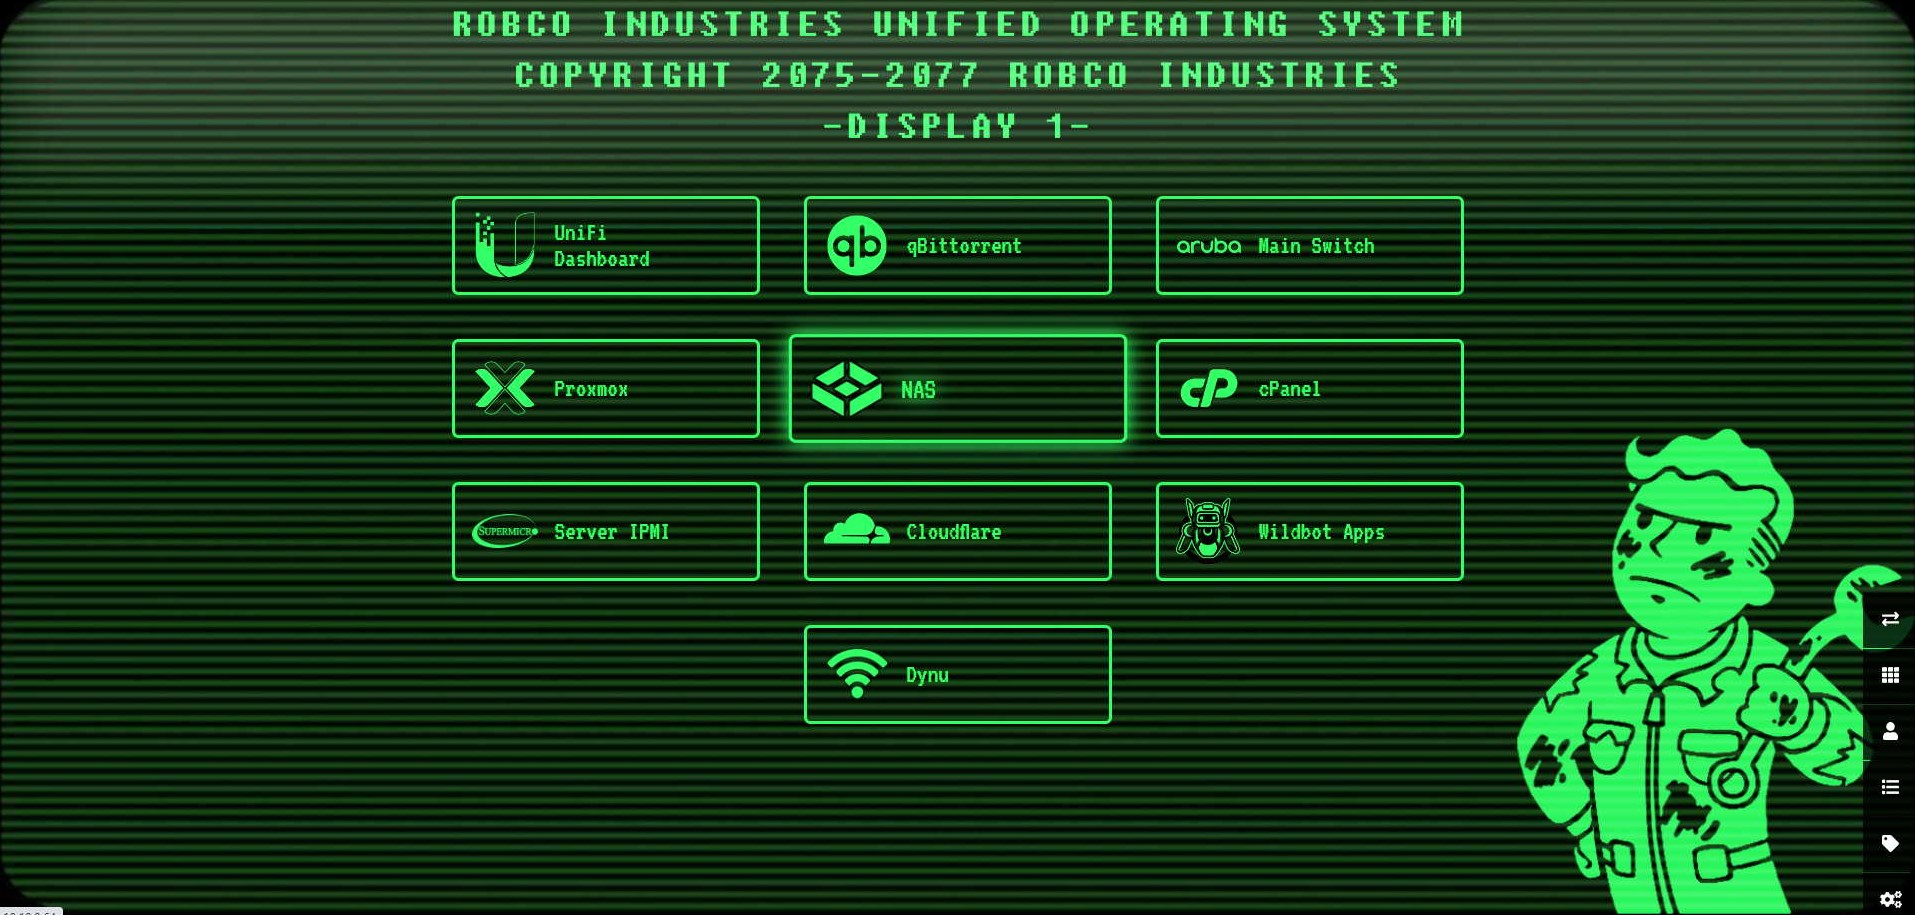
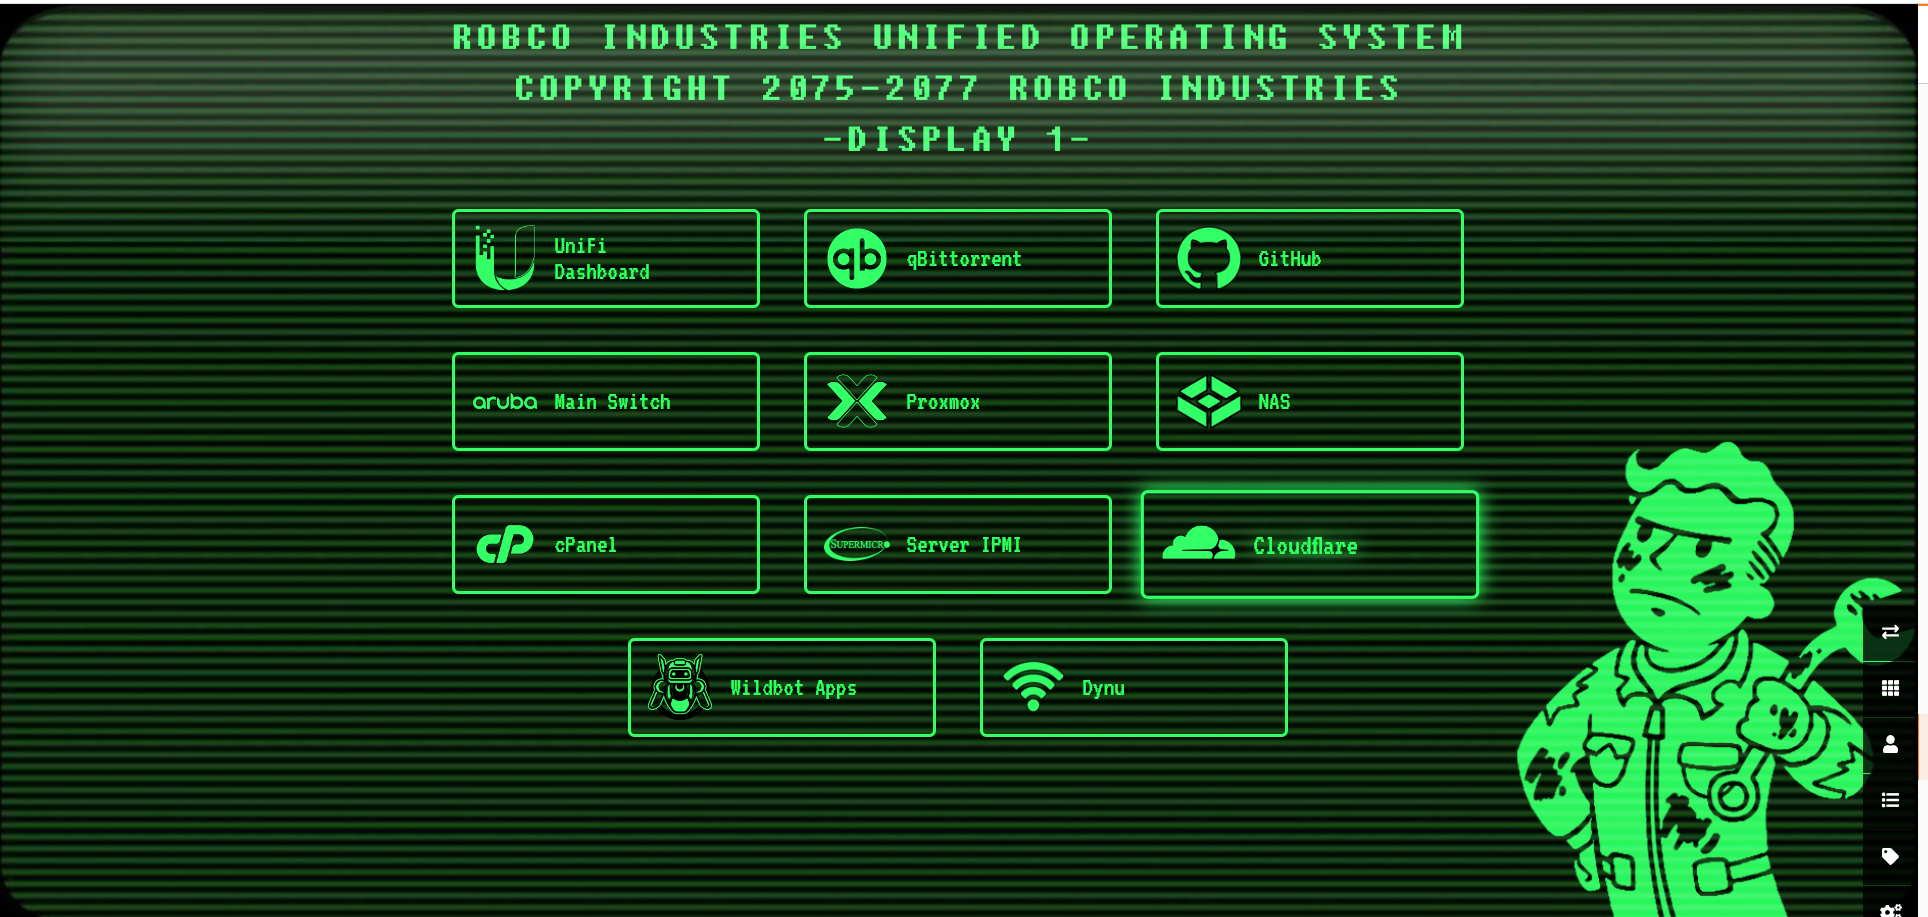
update

Changed region(s): [[0.0, 0.0, 1.0, 1.0]]

diff --git a/custom.js b/custom.js
@@ -1,7 +1,5 @@
 const all = [];
-const head = document.querySelector('head');
 window.addEventListener('DOMContentLoaded', getAll(all));
-window.addEventListener('DOMContentLoaded', font());
 function makeGreen() {
   if (all.length > 0) {
     for (i = 0; i < all.length; i++) {
@@ -14,7 +12,8 @@ function makeGreen() {
   }
 }
 function getAll(arr) {
-  for (i = 1; i <= 10; i++) {
+  const items = document.querySelectorAll('#sortable > section');
+  for (i = 1; i < items.length; i++) {
     arr.push(
       document.querySelector(
         `#sortable > section:nth-child(${i}) > div > div.details > div`
@@ -22,9 +21,11 @@ function getAll(arr) {
     );
   }
   makeGreen();
+  font();
 }
 
 function font() {
+  const head = document.querySelector('head');
   const x = document.createElement('style');
   head.appendChild(x);
   x.innerHTML = `@import url('https://fonts.googleapis.com/css2?family=VT323&display=swap');`;

diff --git a/custom.css b/custom.css
@@ -26,18 +26,16 @@
 
 .item a svg {
   display: none;
-  position: ;
 }
 .item:hover::before {
   transform: scale(1.1);
-  box-shadow: 0 0 1em #fcff33;
+  box-shadow: 0 0 1em #33ff66;
 }
 
 .item:hover {
   box-shadow: 0 0 1em #33ff66;
-  text-shadow: 0 0 1em #33ff66;
   border: 0.2rem solid #33ff66;
-  color: #fcff33;
+  color: #33ff66;
   transform: scale(1.1);
 }
 .item:after {
